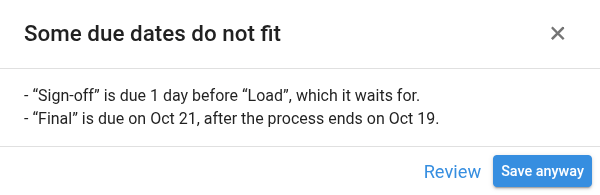
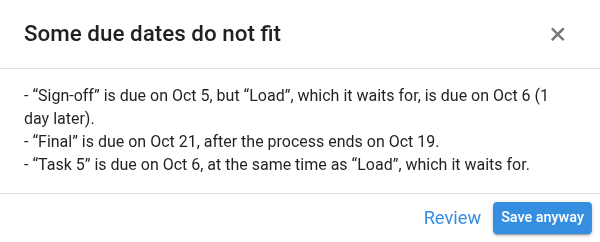
Document the zero-time warning and the due dates shown in the save summary

diff --git a/docs/user-guide/processes.md b/docs/user-guide/processes.md
@@ -51,9 +51,10 @@ Creating tasks within a process provides a way to divide work into smaller units
 Pyplan warns about due dates that cannot work out. The warnings never stop you from saving: they point at the task so you can fix it.
 
 - **A task due no later than a task it waits for.** If a task counts *since the process was initiated* and is due before, or at the same time as, a task in its *Blocked by*, there is no time left to do it. The task dialog shows a warning that names the blocking task and both due dates, with a **Count the days from when it is completed** button that switches the expiration type in one click. With several blocking tasks, the warning is about the one due last. Due dates are projected through chains of tasks, including hours and minutes.
+- **A task with no time after the task it waits for.** A task that counts *since blocking task was completed* with no days, hours or minutes is due the moment its blocking task is, so it is warned about too.
 - **A task due after the process ends.** A process can have a planned end date (it is set by chat; once it has one, the form shows it). A task due after that date is warned about too.
 
-When you save the process, the warnings of every task are listed together under **Some due dates do not fit**. **Review** takes you back to the form and **Save anyway** saves the process as it is.
+When you save the process, the warnings of every task are listed together under **Some due dates do not fit**, with the due dates involved. **Review** takes you back to the form and **Save anyway** saves the process as it is.
 
 ![Due date warnings when saving](./img/processes/due-date-warnings.png)
 
